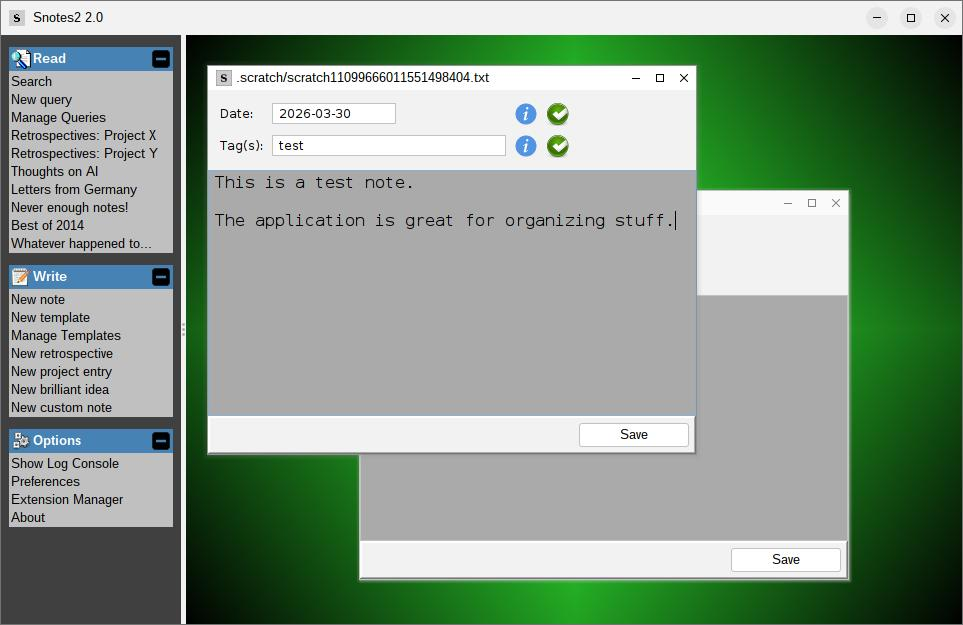
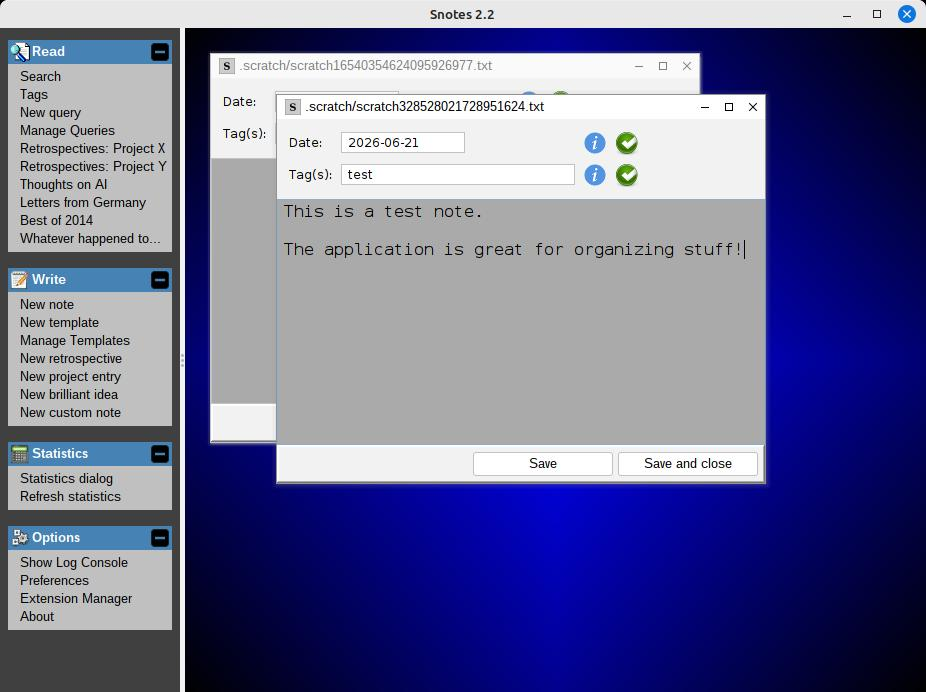
Final touches for 2.2 release! (#109)
* Final touches for 2.2 release!
* Update agent files and adjust installer config
* Update download information

diff --git a/src/main/java/ca/corbett/snotes/Version.java b/src/main/java/ca/corbett/snotes/Version.java
@@ -57,7 +57,7 @@ public final class Version {
     static {
         aboutInfo = new AboutInfo();
         aboutInfo.applicationName = NAME;
-        aboutInfo.applicationVersion = VERSION + "-SNAPSHOT"; // TODO remove SNAPSHOT before release
+        aboutInfo.applicationVersion = VERSION;
         aboutInfo.copyright = COPYRIGHT;
         aboutInfo.license = LICENSE;
         aboutInfo.projectUrl = PROJECT_URL;

diff --git a/.github/copilot-instructions.md b/.github/copilot-instructions.md
@@ -1,0 +1,71 @@
+# Snotes – Copilot Instructions
+
+## Build & Run
+
+```bash
+mvn clean package
+java -jar target/snotes-2.2.jar
+```
+
+Run with a custom settings directory:
+```bash
+java -DSETTINGS_DIR=/path/to/settings -jar target/snotes-2.2.jar
+```
+
+## Tests
+
+```bash
+mvn test                        # full suite
+mvn test -Dtest=TagTest         # single test class
+mvn test -Dtest=TagTest#myMethod  # single test method
+```
+
+Tests are JUnit 5 (jupiter) + Mockito. Test classes live in `src/test/java/` and mirror the main package structure.
+
+## Architecture
+
+Snotes is a Java Swing desktop note-taking app. Notes are plain-text files stored under a configurable data directory, organized by date or in a `static/` folder for undated notes.
+
+### Package layout
+
+| Package | Purpose |
+|---|---|
+| `ca.corbett.snotes` | Entry point (`Main`), app config (`AppConfig`), version info (`Version`) |
+| `ca.corbett.snotes.model` | Domain model: `Note`, `Tag`, `TagList`, `DateTag`, `YMDDate`, `Query`, `Template` |
+| `ca.corbett.snotes.model.filter` | `Filter` hierarchy used for search/query |
+| `ca.corbett.snotes.io` | Persistence: `DataManager` (public API), `SnotesIO` (package-private), `LoaderThread` |
+| `ca.corbett.snotes.ui` | Swing UI: `MainWindow`, `WriterFrame`, `ReaderFrame`, action panel |
+| `ca.corbett.snotes.ui.actions` | `EnhancedAction` subclasses wired into the action panel |
+| `ca.corbett.snotes.extensions` | Extension API: `SnotesExtension`, `SnotesExtensionManager` |
+
+### Key design points
+
+- **`AppConfig`** extends `AppProperties<SnotesExtension>` (from `swing-extras`). It is a singleton that owns all persistent preferences and exposes the PropertiesDialog. All settings are stored in `${SETTINGS_DIR}/Snotes.props`.
+- **`DataManager`** is the only public IO entry point. `SnotesIO` is package-private and must not be called directly from outside `ca.corbett.snotes.io`. `DataManager` also holds `METADATA_DIR`, `STATIC_DIR`, and `SCRATCH_DIR` constants for special sub-directories.
+- **`Filter`** subclasses use Jackson `@JsonSubTypes` for polymorphic serialization. When adding a new filter, register it in the `@JsonSubTypes` annotation on `Filter`.
+- **`SnotesExtension`** extends `AppExtension` (swing-extras). Extensions are loaded at runtime from jar files placed in `${SETTINGS_DIR}/extensions/`. Extensions can contribute `ActionGroup`s, extra actions in built-in groups (`READ`, `WRITE`, `OPTIONS`), and `LogConsoleStyle`s.
+- **UI actions** extend `EnhancedAction` and are grouped with `ActionGroup`. Built-in group names are constants on `ActionGroup` (`READ`, `WRITE`, `OPTIONS`).
+- **File naming**: dated notes live at `{dataDir}/{yyyy}/{MM}/{dd}/{tag1}_{tag2}.txt`; undated notes at `{dataDir}/static/{tag1}_{tag2}.txt`; scratch notes in `.scratch/`.
+
+### External dependencies
+
+- **`swing-extras` v3.0.0** – provides `AppProperties`, `AppExtension`, `EnhancedAction`, `ActionPanel`, `LookAndFeelManager`, form fields, progress dialogs, and more. Documentation: https://www.corbett.ca/swing-extras-book/
+- **`FlatLaf`** – Look and Feel
+- **Jackson** – JSON serialization for `Query`/`Filter` persistence
+
+## Key Conventions
+
+- **Java 25**, 4-space indent, end-of-line braces, no trailing whitespace. See `.editorconfig` for full IntelliJ formatter settings.
+- **`Tag` is immutable and always lower-case.** The constructor normalizes input (spaces/slashes/backslashes/`#` → `_`). `Tag.toString()` returns `"#value"`; `Tag.getTag()` returns the raw value without the hash.
+- **`DateTag` extends `Tag`** and matches the `yyyy-MM-dd` format. A `Note` may have at most one `DateTag`.
+- **Logging**: use `java.util.logging` (`Logger.getLogger(ClassName.class.getName())`). No SLF4J or Log4j.
+- **No lint/typecheck step** — plain `mvn compile`.
+- **`Version.SETTINGS_DIR`** is computed at class-load time from the `SETTINGS_DIR` system property (default `~/.Snotes`). Other paths (`EXTENSIONS_DIR`, `INSTALL_DIR`, `UPDATE_SOURCES_FILE`) follow the same pattern in `Version`.
+
+## Installer (Linux only)
+
+If `~/bin/make-installer` exists, the `make-installer` Maven profile activates automatically on `mvn package`. To force it:
+```bash
+mvn package -Pmake-installer
+```
+Edit `installer.props` to customize the output.

diff --git a/AGENTS.md b/AGENTS.md
@@ -26,7 +26,7 @@ mvn test -Dtest=TagTest
 ## Architecture
 
 - **Entry point:** `ca.corbett.snotes.Main`
-- **Desktop UI:** Java Swing + [swing-extras](https://github.com/scorbo2/swing-extras) (v3.0.0-SNAPSHOT) + FlatLaf
+- **Desktop UI:** Java Swing + [swing-extras](https://github.com/scorbo2/swing-extras) (v3.0.0) + FlatLaf
 - **Packaging:** Maven copies runtime deps to `target/lib/` via `maven-dependency-plugin`. The jar manifest sets `lib/` as classpath prefix and `ca.corbett.snotes.Main` as main class.
 - **Settings directory:** `~/.Snotes` by default (overridable via `SETTINGS_DIR` system property or `Version.SETTINGS_DIR`). Contains `Snotes.props`, `data/`, `extensions/`, `logging.properties`.
 - **Extensions:** Loaded from jar files in `${SETTINGS_DIR}/extensions` at runtime. Define via `SnotesExtension` / `SnotesExtensionManager`.

diff --git a/README.md b/README.md
@@ -14,11 +14,9 @@ allowing for effortless searching.
 
 If you are running on Linux, and have Java 25 or higher installed, you can download the installer tarball:
 
-- [Snotes Installer](https://www.corbett.ca/apps/Snotes-2.1.tar.gz)
-- Size: 6MB
[1 lines of base64/hex data omitted]
-
-TODO update download info for 2.2 release
+- [Snotes Installer](https://www.corbett.ca/apps/Snotes-2.2.tar.gz)
+- Size: 5MB
[1 lines of base64/hex data omitted]
 
 This is the best option, as you get an installer script that sets everything up for you:
 
